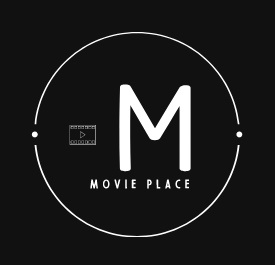
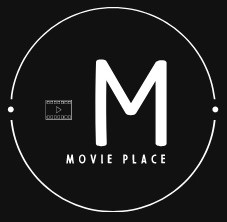
added search bar and it's functionality
css and html are not 100% done with the search results

diff --git a/src/searchBar.js b/src/searchBar.js
@@ -1,0 +1,65 @@
+import { listOfMoviesGenerator } from "./mainContentLoader.js";
+
+const searchForm = document.getElementById('search');
+searchForm.addEventListener('submit', searchMovie);
+async function searchMovie(e) {
+    e.preventDefault()
+    const formData = new FormData(e.target);
+    const value = formData.get('search')
+
+    const urlSearchByMovie = `https://api.themoviedb.org/3/search/movie?api_key=ca699f41df4cdcc6f6807864d5581587&language=en-US&query=${value}&page=1&include_adult=false`;
+
+    try {
+        if (value.length < 3) {
+            alert('Field must have at least 3 letters!')
+            return
+        }
+        const response = await fetch(urlSearchByMovie);
+
+        if (response.ok == false) {
+            const error = await response.json()
+            alert(error.message)
+            return
+        }
+        const data = await response.json();
+        generator(data.results)
+        // const foundMovies = document.createElement('div');
+        // foundMovies.className = 'found-movies';
+        // foundMovies.replaceChildren(...data.results.map(listOfMoviesGenerator))
+        // document.querySelector('div').appendChild(foundMovies)
+        // console.log(foundMovies)
+    } catch (error) {
+        alert(error.message)
+    }
+
+}
+
+let exampleObject = {
+    "adult": false,
+    "backdrop_path": "/bQXAqRx2Fgc46uCVWgoPz5L5Dtr.jpg",
+    "genre_ids": [
+        28,
+        14,
+        878
+    ],
+    "id": 436270,
+    "original_language": "en",
+    "original_title": "Black Adam",
+    "overview": "Nearly 5,000 years after he was bestowed with the almighty powers of the Egyptian gods—and imprisoned just as quickly—Black Adam is freed from his earthly tomb, ready to unleash his unique form of justice on the modern world.",
+    "popularity": 3936.982,
+    "poster_path": "/3zXceNTtyj5FLjwQXuPvLYK5YYL.jpg",
+    "release_date": "2022-10-19",
+    "title": "Black Adam",
+    "video": false,
+    "vote_average": 6.8,
+    "vote_count": 876
+}
+
+function generator(data) {
+    const foundMovies = document.createElement('div');
+    foundMovies.className = 'found-movies';
+    foundMovies.replaceChildren(...data.map(listOfMoviesGenerator))
+    document.querySelector('div').appendChild(foundMovies)
+    console.log(foundMovies)
+
+}

diff --git a/styles/style.css b/styles/style.css
@@ -17,6 +17,7 @@ body {
 h3 {
   color: white;
 }
+
 .movieTypes {
   margin-top: 15px;
 
@@ -26,17 +27,44 @@ h3 {
   text-align: center;
 }
 .welcome-view {
-  width: 100vw;
-  height: 120px;
+  position: sticky;
+  top: 0;
+  z-index: 1;
+  width: 100%;
+  height: 75px;
   background-color: rgb(16, 16, 16);
   /* background-image: url("../aceds/movie-place-black.jpg"); */
   background-repeat: no-repeat;
   border-bottom: 2px solid silver;
 }
+
 #logo {
-  margin-left: 10px;
-  margin-top: 4px;
-  height: 110px;
+  justify-content: left;
+  margin-left: 15px;
+  height: 70px;
+}
+#search {
+  position: absolute;
+  top: calc(50% - 10px);
+  right: 35px;
+}
+.input-search {
+  border: none;
+  border-radius: 3px;
+  width: 220px;
+  height: 20px;
+  color: rgba(255, 240, 222, 0.785);
+  background-color: rgb(95, 95, 95);
+}
+.button-search {
+  border: none;
+  border-radius: 3px;
+  height: 22px;
+  width: 60px;
+  text-align: center;
+  text-transform: uppercase;
+  color: rgba(255, 240, 222, 0.785);
+  background-color: rgb(95, 95, 95);
 }
 .movie {
   position: relative;
@@ -55,9 +83,7 @@ h3 {
 #poster:hover {
   transform: scale(1.06);
 }
-/* #content-loader{
-    margin-top: 15px;
-} */
+
 #content {
   height: 340px;
   padding: 5px;
@@ -73,4 +99,15 @@ h3 {
 }
 #content:hover {
   transform: scale(1.01);
+}
+.found-movies {
+  height: 360px;
+  /* padding: 200px; */
+  display: flex;
+  gap: 10px;
+  overflow-y: hidden;
+  overflow-x: scroll;
+  padding: 20px;
+  transition: 0.5s;
+  background-color: black;
 }

diff --git a/src/requests.js b/src/requests.js
@@ -1,9 +1,26 @@
 const baseUrl = 'https://api.themoviedb.org/3';
 const imageUrl = 'http://image.tmdb.org/t/p/w300';
 const API_KEY = 'ca699f41df4cdcc6f6807864d5581587';
-const urlMovieSearch = 'https://api.themoviedb.org/3/movie/'
+const urlMovieSearch = 'https://api.themoviedb.org/3/movie/';
+const videos = 'https://api.themoviedb.org/3/movie/{436270}/videos?api_key=ca699f41df4cdcc6f6807864d5581587&language=en-US';
+
+
+
+let testVideoBlackAdam = {
+    "iso_639_1": "en",
+    "iso_3166_1": "US",
+    "name": "Official Trailer",
+    "key": "JaV7mmc9HGw",
+    "site": "YouTube",
+    "size": 1080,
+    "type": "Trailer",
+    "official": true,
+    "published_at": "2022-06-08T13:00:37.000Z",
+    "id": "62a09e8065e0a2163e6cc526"
+}
 // const urlMovieSearch = 'https://api.themoviedb.org/3/movie/${movieId}'
 
+const urlSearchByKeyword = 'https://api.themoviedb.org/3/search/keyword?api_key=ca699f41df4cdcc6f6807864d5581587&query={black adam}&page=1';
 const requests = {
     trending: `/trending/all/week?api_key=${API_KEY}&language=en-US`,
     netflixOriginal: `/discover/tv?api_key=${API_KEY}&with_networks=213`,
@@ -13,7 +30,7 @@ const requests = {
     horrorMovies: `/discover/movie?api_key=${API_KEY}&with_genres=27`,
     romanceMovies: `/discover/movie?api_key=${API_KEY}&with_genres=10749`,
     documentaryMovies: `/discover/movie?api_key=${API_KEY}&with_genres=99`,
-    movieSearch: `?api_key=ca699f41df4cdcc6f6807864d5581587&language=en-US`
+    movieSearch: `?api_key=${API_KEY}&language=en-US`
 };
 
 export {

diff --git a/src/mainContentLoader.js b/src/mainContentLoader.js
@@ -44,13 +44,16 @@ export async function loadListOfMovies() {
 
 
 
-function listOfMoviesGenerator(movies) {
+export function listOfMoviesGenerator(movies) {
     const posterPath = movies['poster_path']
     const div = document.createElement('div');
     div.className = 'movie';
     const poster = document.createElement('img');
     poster.id = 'poster';
     poster.src = `${imageUrl}${posterPath}`;
+    if (poster.src == 'http://image.tmdb.org/t/p/w300null') {
+        poster.src = 'https://sd.keepcalms.com/i-w600/keep-calm-poster-not-found.jpg'
+    }
     poster.setAttribute('data-id', movies['id'])
     const title = document.createElement('h3');
     title.className = 'movieTitle';

diff --git a/index.html b/index.html
@@ -17,9 +17,13 @@
 
     <div class="welcome-view">
         <img id="logo" src="./aceds/movie-place-black.jpg" alt="">
+        <form id="search">
+            <input class="input-search" type="text" name="search" placeholder="search for movie">
+            <input class="button-search" type="submit" value="search">
+        </form>
     </div>
 
-    
+
     <div id="content-loader">
         <!-- <h2 class="movieTypes">Netflix Originals:</h2>
         <div id="content" data='netflix'></div> -->

diff --git a/src/movieInfo.js b/src/movieInfo.js
@@ -39,7 +39,7 @@ const infoSection = {
     company: document.getElementById('company'),
     overview: document.getElementById('overview')
 };
-function displayInfo(data) {
+export function displayInfo(data) {
     infoSection.title.textContent = data.title;
     infoSection.originalTitle.textContent = `Original title: ${data.original_title}`;
     infoSection.image.src = `${imageUrl}${data.poster_path}`;

diff --git a/src/app.js b/src/app.js
@@ -1,5 +1,6 @@
 import { loadListOfMovies } from "./mainContentLoader.js";
 import { movieFinder } from "./movieInfo.js";
+import * as search from './searchBar.js'
 
 loadListOfMovies()
 movieFinder()
